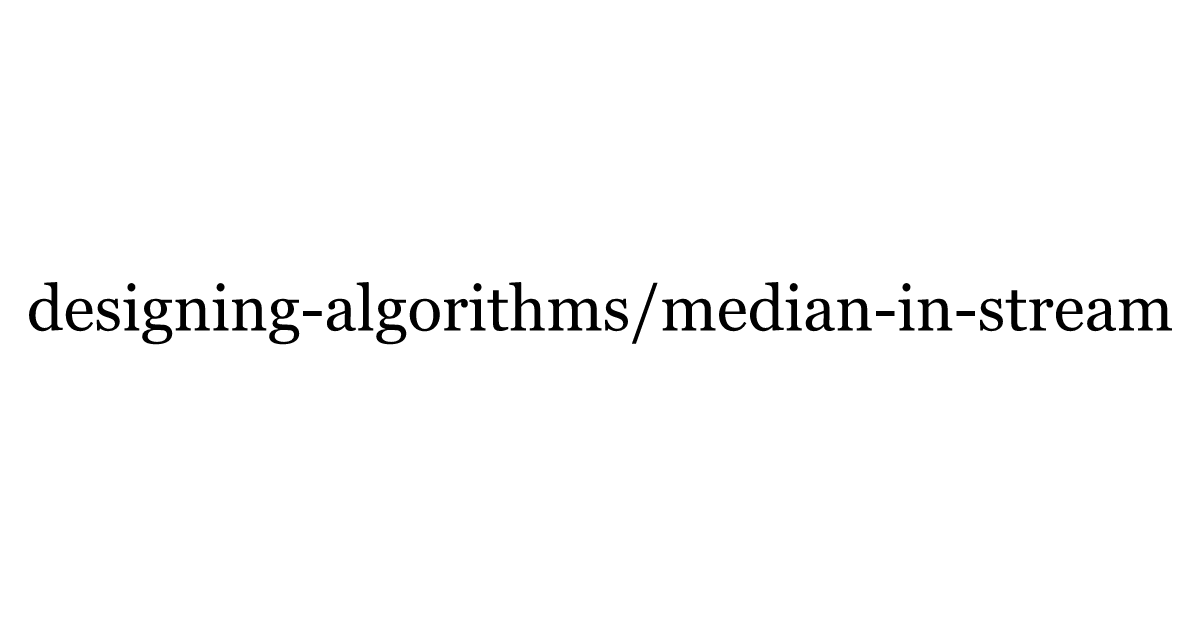
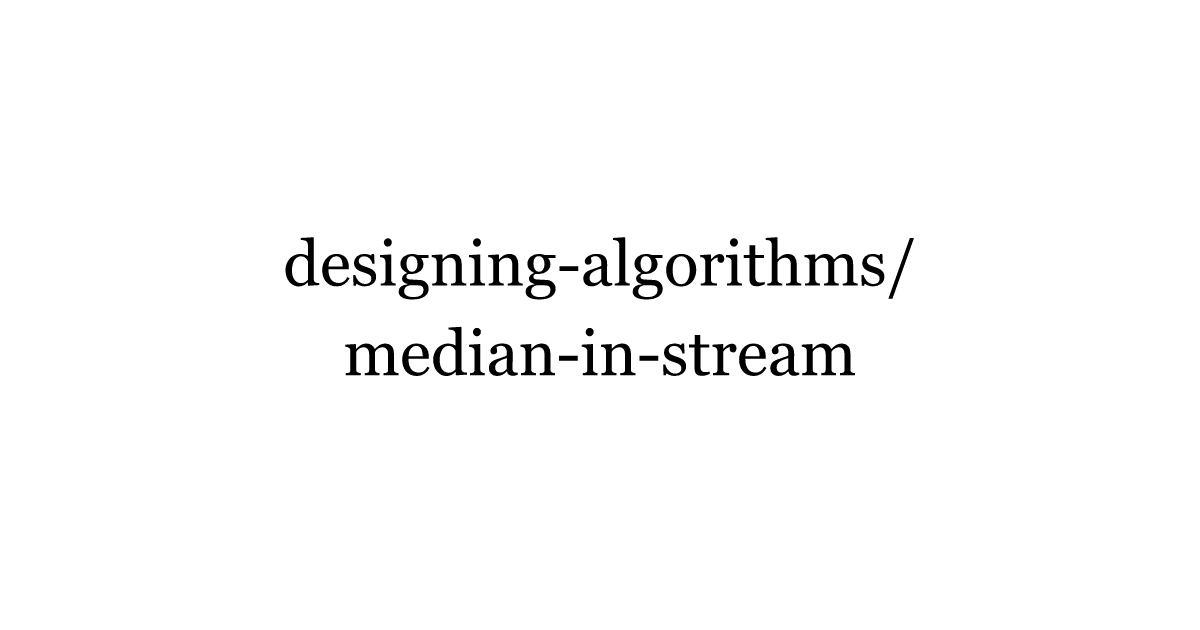
fix(og): font size to fit image width / height

Changed region(s): [[0.0, 0.3619, 0.9867, 0.6032]]

diff --git a/scripts/gen-og.ts b/scripts/gen-og.ts
@@ -22,10 +22,38 @@ function escapeXml(s: string): string {
   );
 }
 
+const FONT = "Georgia, 'Latin Modern Roman', 'Times New Roman', serif";
+const FONT_SIZE = 64;
+const PADDING = 80;
+const MAX_WIDTH = WIDTH - PADDING * 2;
+const CHARS_PER_EM = 0.55;
+
+function wrapLines(label: string): string[] {
+  if (label.length * CHARS_PER_EM * FONT_SIZE <= MAX_WIDTH) return [label];
+
+  const slashIdx = label.indexOf("/");
+  if (slashIdx !== -1) {
+    return [label.slice(0, slashIdx + 1), label.slice(slashIdx + 1)];
+  }
+  return [label];
+}
+
 function svg(label: string): string {
+  const lines = wrapLines(label);
+  const lineHeight = FONT_SIZE * 1.4;
+  const blockHeight = lineHeight * (lines.length - 1);
+  const startY = HEIGHT / 2 - blockHeight / 2;
+
+  const tspans = lines
+    .map(
+      (line, i) =>
+        `<tspan x="${WIDTH / 2}" dy="${i === 0 ? 0 : lineHeight}">${escapeXml(line)}</tspan>`,
+    )
+    .join("");
+
   return `<svg xmlns="http://www.w3.org/2000/svg" width="${WIDTH}" height="${HEIGHT}" viewBox="0 0 ${WIDTH} ${HEIGHT}">
   <rect width="100%" height="100%" fill="#ffffff"/>
-  <text x="${WIDTH / 2}" y="${HEIGHT / 2}" text-anchor="middle" dominant-baseline="middle" font-family="Georgia, 'Latin Modern Roman', 'Times New Roman', serif" font-size="64" fill="#000000">${escapeXml(label)}</text>
+  <text x="${WIDTH / 2}" y="${startY}" text-anchor="middle" dominant-baseline="middle" font-family="${FONT}" font-size="${FONT_SIZE}" fill="#000000">${tspans}</text>
 </svg>`;
 }
 
